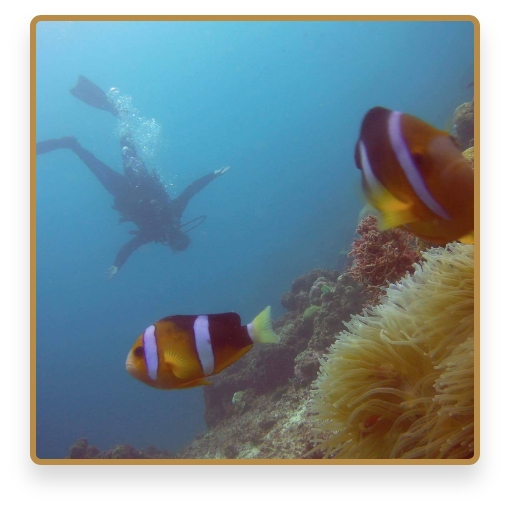
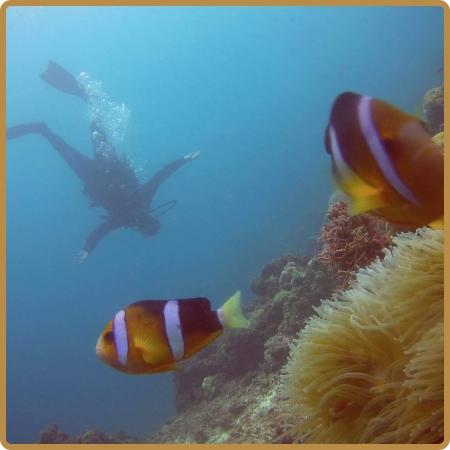
changed pictures of me on Index & About pages

diff --git a/css/style.css b/css/style.css
@@ -110,7 +110,7 @@ a.menu:active {
   font-size: 14px;
   font-weight: 500;
   padding: 10px 16px;
-  border-radius: 4px;
+  border-radius: 11px;
   transition: 0.2s background;
 }
 
@@ -141,7 +141,7 @@ a.menu:active {
   font-size: 14px;
   font-weight: 500;
   padding: 10px 16px;
-  border-radius: 4px;
+  border-radius: 11px;
   text-transform: uppercase;
   border: 2px solid #B88C46;
   transition: 0.2s background;
@@ -426,6 +426,10 @@ span.gold {
   margin-bottom: 25px;
 }
 
+#myportfoliowebsite img, #expertsnow img, #multilearn img {
+  border-radius: 11px;
+}
+
 #myportfoliowebsite, #expertsnow {
   padding-bottom: 50px;
   border-bottom: 1px solid #B88C46;
@@ -634,6 +638,11 @@ span.gold {
   }
 
   /* About */
+  #me img {
+    width: 75%;
+    display: flex;
+    margin: 0 auto;
+  }
 
   #single_img {
     display: none;

diff --git a/FR/about.html b/FR/about.html
@@ -89,8 +89,8 @@
       <div class="container">
         <div class="row">
           <picture>
-            <source srcset="../img/me2@1.jpg" media="(max-width:767px)">
-            <img src="../img/me2@2.jpg" alt="Me">
+            <source srcset="../img/me2.jpg" media="(max-width:767px)">
+            <img src="../img/me2@2x.jpg" alt="Me">
           </picture>
         </div>
         <div class="row me">

diff --git a/about.html b/about.html
@@ -89,8 +89,8 @@
       <div class="container">
         <div class="row">
           <picture>
-            <source srcset="img/me2@1.jpg" media="(max-width:767px)">
-            <img src="img/me2@2.jpg" alt="Me">
+            <source srcset="img/me2.jpg" media="(max-width:767px)">
+            <img src="img/me2@2x.jpg" alt="Me">
           </picture>
         </div>
         <div class="row me">
